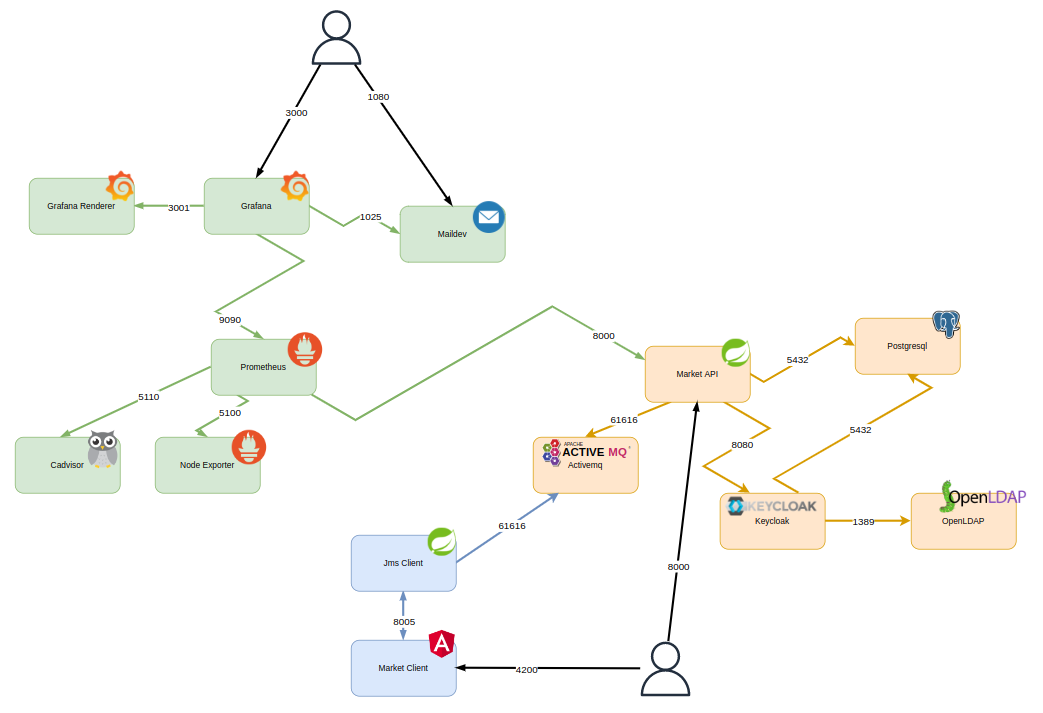
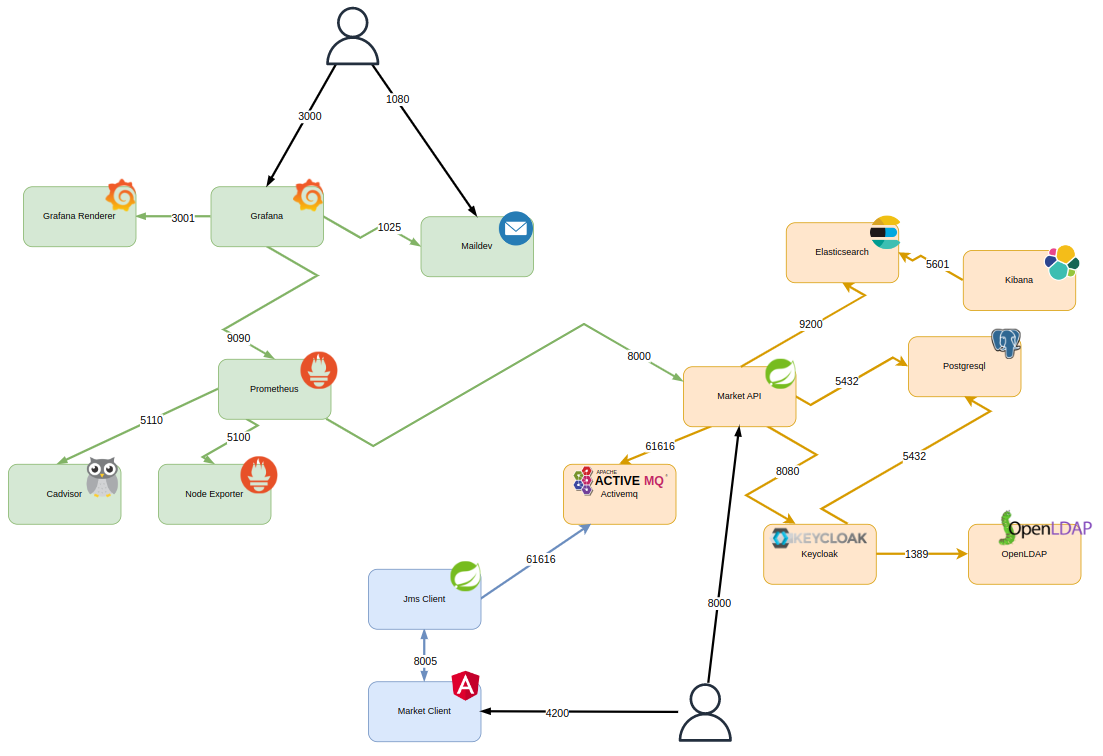
updated doc with elasticsearch stack

diff --git a/README.md b/README.md
@@ -82,6 +82,18 @@ Port Webmail `1080`
 
 Port 61616
 
+#### **Elasticsearch**
+
+> Search engine
+
+Port 9200
+
+#### **Kibana**
+
+> Search engine UI
+
+Port 5601
+
 ### Run backend API
 
 `mvn spring-boot:run`
